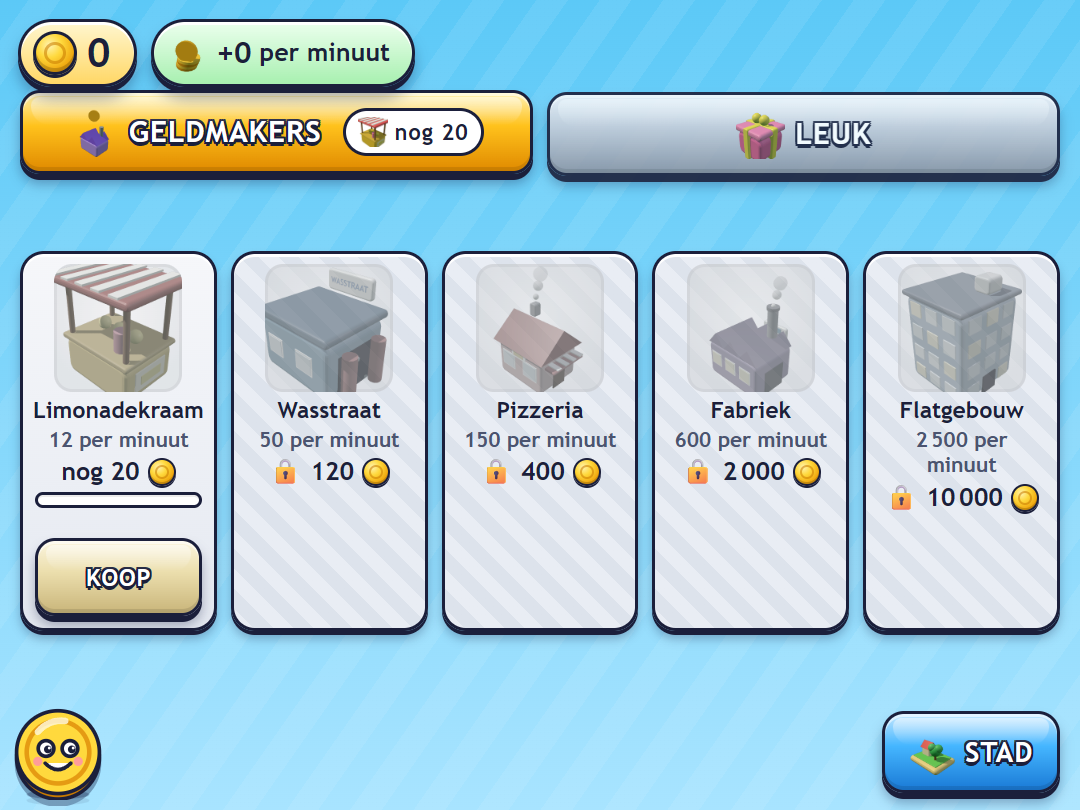
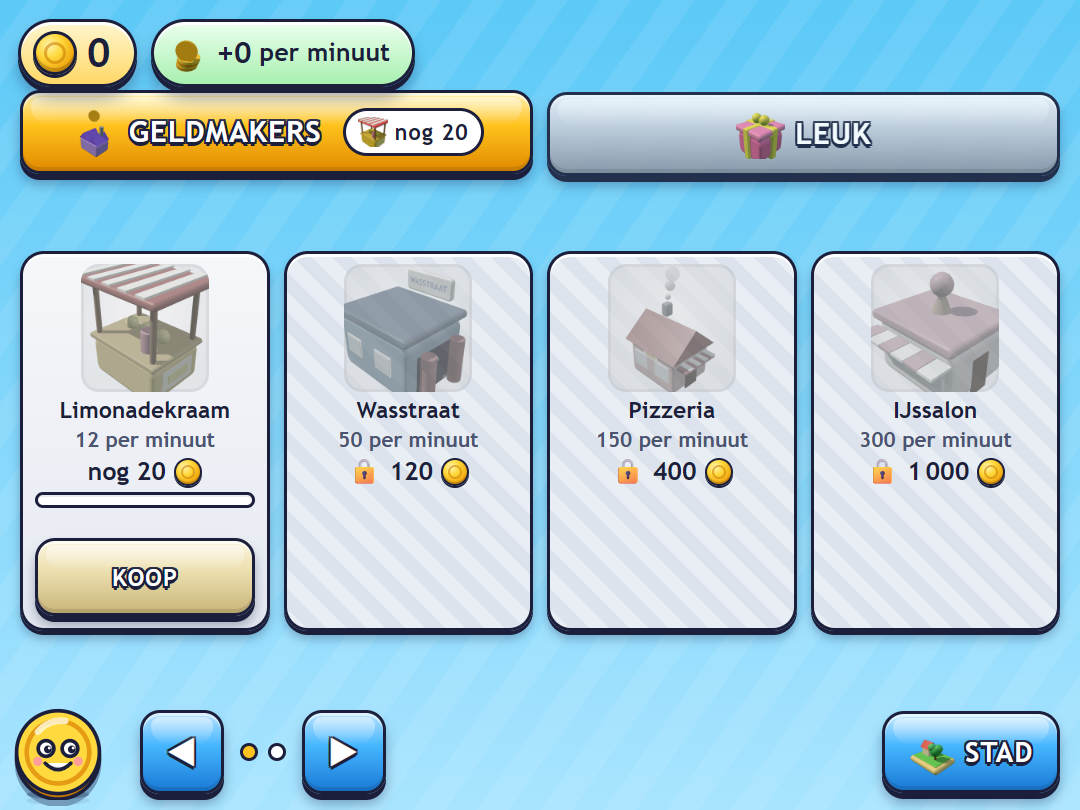
V5.5 Dorp groter: eiland 20×14, IJssalon en Pretpark met vijf levels, winkel vier geldmakers per pagina, Bewaar-code per id (oude codes blijven werken); sw v22

Changed region(s): [[0.0306, 0.3086, 0.9778, 0.8025], [0.1222, 0.8642, 0.3667, 1.0]]

diff --git a/docs/js/3d/buildings.js b/docs/js/3d/buildings.js
@@ -190,13 +190,97 @@ function flat(b, group, anim, level) {
   if (level >= 5) crownAt(b, group, anim, 0, -1.05, h + 0.6);
 }
 
-const BUILDERS = { limonade, wasstraat, pizzeria, fabriek, flat };
+// ---------- IJssalon (V5.5): a cream-and-pink parlour that grows a giant cone, a terrace and a second floor ----------
+function ijssalon(b, group, anim, level) {
+  const c = '#fff0f5', trim = '#ff9fbd';
+  b.box(-1.1, -0.9, 0, 2.2, 1.8, 1.3, c, { r: 0.12 });
+  b.box(-1.2, -1.0, 1.3, 2.4, 2.0, 0.22, trim, { r: 0.06 });
+  b.face(-1.1, -0.9, 0, 2.2, 1.8, 'x', 0.65, 0, 0.5, 0.9, DOOR);
+  windowPane(b, -1.1, -0.9, 0, 2.2, 1.8, 'y', 0.2, 0.4, 0.7, 0.6);
+  windowPane(b, -1.1, -0.9, 0, 2.2, 1.8, 'y', 1.3, 0.4, 0.7, 0.6);
+  // striped awning over the front
+  for (let i = 0; i < 6; i++) b.box(-1.15 + i * 0.38, 0.9, 1.05, 0.36, 0.5, 0.06, i % 2 ? '#ffffff' : trim, { r: 0.01 });
+  // the cone on the roof: bigger with every level
+  const s = 0.55 + Math.min(level, 5) * 0.12;
+  b.cone(0, 0, 1.52, 0.32 * s, 0.9 * s, '#d9a066', 8);
+  b.sphere(0, 0, 1.52 + 0.9 * s, 0.38 * s, '#ff9fbd', 10);
+  if (level >= 2) b.sphere(0, 0, 1.52 + 0.9 * s + 0.5 * s, 0.32 * s, '#fff2b3', 10);
+  if (level >= 3) b.sphere(0, 0, 1.52 + 0.9 * s + 0.95 * s, 0.14 * s, '#ff5f5f', 8);   // the cherry
+  if (level >= 2) { b.cyl(-1.0, 1.25, 0, 0.3, 0.4, WOOD, 10); b.cyl(-1.0, 1.25, 0.4, 0.05, 1.0, METAL, 6); b.cone(-1.0, 1.25, 1.35, 0.55, 0.25, trim, 10); }   // parasol table
+  if (level >= 3) { b.cyl(1.0, 1.25, 0, 0.3, 0.4, WOOD, 10); b.cyl(1.0, 1.25, 0.4, 0.05, 1.0, METAL, 6); b.cone(1.0, 1.25, 1.35, 0.55, 0.25, '#7cc4ff', 10); }
+  if (level >= 4) {
+    b.box(-1.0, -0.8, 1.52, 2.0, 1.6, 1.0, c, { r: 0.08 });
+    windowPane(b, -1.0, -0.8, 1.52, 2.0, 1.6, 'y', 0.3, 0.25, 0.6, 0.55);
+    windowPane(b, -1.0, -0.8, 1.52, 2.0, 1.6, 'y', 1.1, 0.25, 0.6, 0.55);
+    b.box(-1.1, -0.9, 2.52, 2.2, 1.8, 0.2, trim, { r: 0.06 });
+    flagAt(b, group, anim, 1.2, -0.9, 2.7, trim);
+  }
+  if (level >= 5) crownAt(b, group, anim, -0.8, -0.7, level >= 4 ? 2.8 : 1.7);
+  // the cone turns slowly from level 3 on
+  if (level >= 3) {
+    const spin = new T.Group();
+    const cb = new Builder({ r: 0.02 });
+    for (let i = 0; i < 4; i++) { const a = (i / 4) * Math.PI * 2; cb.sphere(Math.cos(a) * 0.55, Math.sin(a) * 0.55, 0, 0.1, ['#ff5f5f', '#ffe94d', '#45d65c', '#7cc4ff'][i], 6); }
+    spin.add(cb.build({ shadow: false }));
+    spin.position.set(0, (level >= 4 ? 2.72 : 1.52) + 0.9 * s + 1.2 * s, 0);
+    group.add(spin);
+    anim.push((t) => { spin.rotation.y = t / 900; });
+  }
+}
+
+// ---------- Pretpark (V5.5): a gate, a ferris wheel that turns, a carousel, a slide, a bouncy castle, a loop ----------
+function pretpark(b, group, anim, level) {
+  // entrance arch on the road side
+  b.box(-1.5, 1.2, 0, 0.18, 0.18, 1.6, '#ffe94d', { r: 0.03 });
+  b.box(1.32, 1.2, 0, 0.18, 0.18, 1.6, '#ffe94d', { r: 0.03 });
+  b.box(-1.55, 1.15, 1.6, 3.1, 0.3, 0.35, '#ff5f5f', { r: 0.06 });
+  for (let i = 0; i < 5; i++) b.sphere(-1.2 + i * 0.6, 1.3, 1.97, 0.08, i % 2 ? '#ffe94d' : '#ffffff', 6);
+  b.slab(-1.5, -1.5, 0, 3.0, 2.6, '#d5c9a0');   // the ground of the park
+  // the ferris wheel: a hub on two legs, the wheel itself turns (grows with the level)
+  const r = 0.55 + Math.min(level, 5) * 0.08;
+  b.box(-0.9, -0.7, 0, 0.14, 0.14, r + 0.6, METAL, { r: 0.02 });
+  b.box(-0.9, -0.1, 0, 0.14, 0.14, r + 0.6, METAL, { r: 0.02 });
+  const wheel = new T.Group();
+  const wb = new Builder({ r: 0.02 });
+  wb.add(new T.TorusGeometry(r, 0.05, 6, 20), '#45b6ff');
+  for (let i = 0; i < 6; i++) {
+    const a = (i / 6) * Math.PI * 2;
+    wb.add(new T.BoxGeometry(0.04, r * 2, 0.04).rotateZ(a), METAL);
+    wb.add(new T.BoxGeometry(0.28, 0.24, 0.24).translate(Math.cos(a) * r, Math.sin(a) * r, 0), ['#ff5f5f', '#ffe94d', '#45d65c', '#ff9f2e', '#b76cff', '#ff6fae'][i]);
+  }
+  wheel.add(wb.build());
+  wheel.position.set(-0.9, r + 0.6, -0.4);
+  wheel.rotation.y = Math.PI / 2;
+  group.add(wheel);
+  anim.push((t) => { wheel.rotation.z = t / 2600; });
+  if (level >= 2) {
+    // carousel: a round roof on a pole with four horses that go round
+    b.cyl(0.6, -0.6, 0, 0.6, 0.12, '#ff5f5f', 14);
+    b.cyl(0.6, -0.6, 0.12, 0.06, 1.1, METAL, 6);
+    b.cone(0.6, -0.6, 1.2, 0.7, 0.4, '#ffe94d', 14);
+    const car = new T.Group();
+    const cb = new Builder({ r: 0.02 });
+    for (let i = 0; i < 4; i++) { const a = (i / 4) * Math.PI * 2; cb.box(Math.cos(a) * 0.4 - 0.1, Math.sin(a) * 0.4 - 0.07, 0.35, 0.2, 0.14, 0.2, ['#ffffff', '#ff9fbd', '#7cc4ff', '#fff2b3'][i], { r: 0.04 }); cb.cyl(Math.cos(a) * 0.4, Math.sin(a) * 0.4, 0.12, 0.02, 1.0, METAL, 5); }
+    car.add(cb.build());
+    car.position.set(0.6, 0, -0.6);
+    group.add(car);
+    anim.push((t) => { car.rotation.y = t / 1400; });
+  }
+  if (level >= 3) { b.box(0.6, 0.5, 0, 0.16, 0.16, 1.1, METAL, { r: 0.02 }); b.box(0.35, 0.55, 0.9, 0.6, 0.3, 0.1, '#ffe94d', { r: 0.03 }); for (let i = 0; i < 5; i++) b.box(0.7 + i * 0.16, 0.5, 0.9 - i * 0.18, 0.2, 0.36, 0.08, '#45d65c', { r: 0.02 }); }   // slide
+  if (level >= 4) { b.box(-1.4, -1.45, 0, 1.0, 0.8, 0.5, '#b76cff', { r: 0.18 }); for (const [dx, dy] of [[0, 0], [0.8, 0], [0, 0.6], [0.8, 0.6]]) b.cyl(-1.3 + dx, -1.35 + dy, 0.5, 0.08, 0.45, '#ff9fbd', 6); b.box(-1.4, -1.45, 0.95, 1.0, 0.8, 0.12, '#ff9fbd', { r: 0.05 }); }   // bouncy castle
+  if (level >= 5) { b.add(new T.TorusGeometry(0.55, 0.06, 8, 24).rotateY(Math.PI / 2).translate(1.05, 0.7, 0.4), '#ff5f5f'); b.box(0.9, 1.0, 0, 0.3, 0.14, 0.7, METAL, { r: 0.02 }); b.box(0.9, -0.3, 0, 0.3, 0.14, 0.7, METAL, { r: 0.02 }); crownAt(b, group, anim, 1.1, -1.2, 1.9); }   // the loop
+  if (level >= 3) flagAt(b, group, anim, -1.4, 1.2, 1.9, '#45d65c');
+}
+
+const BUILDERS = { limonade, wasstraat, pizzeria, ijssalon, fabriek, flat, pretpark };
 
 /** Height of a coin-maker in world units at a level. */
 export function makerHeight(id, level) {
   if (id === 'flat') return (3 + level) * 0.62 + (level >= 5 ? 1.9 : level >= 4 ? 1.0 : 0.6);
   if (id === 'pizzeria') return level >= 3 ? 4.4 : 3.4;
   if (id === 'fabriek') return level >= 4 ? 4.2 : 3.6;
+  if (id === 'ijssalon') return level >= 4 ? 4.6 : 3.4;
+  if (id === 'pretpark') return 2.4 + Math.min(level, 5) * 0.16;
   return level >= 5 ? 3.6 : 3.0;
 }
 

diff --git a/docs/js/3d/world.js b/docs/js/3d/world.js
@@ -4,27 +4,29 @@
 import * as T from '../../vendor/three.module.min.js';
 import { Builder, MAT, shade, col, textPlane, INK } from './build.js';
 
-export const ISLAND = { w: 16, d: 12, r: 2.4 };
+export const ISLAND = { w: 20, d: 14, r: 2.4 };   // V5.5: bigger, room for seven coin-makers
 // the loop sits well inside the plots: sidewalk edges at y 2.0/9.8 and x 2.4/13.2 leave every plot's building clear
-export const ROAD = { x: 3.4, y: 3.0, w: 8.8, d: 5.8, r: 1.4, width: 1.2 };
+export const ROAD = { x: 3.4, y: 3.0, w: 12.8, d: 7.8, r: 1.4, width: 1.2 };
 export const PLOTS = {
   limonade: [5.2, 0.9],
   wasstraat: [9.6, 0.9],
-  pizzeria: [14.4, 4.2],
-  flat: [14.2, 8.6],
-  fabriek: [1.6, 8.6],
+  ijssalon: [14.0, 0.9],
+  pizzeria: [18.4, 4.4],
+  pretpark: [18.3, 9.6],
+  flat: [13.6, 13.1],
+  fabriek: [1.6, 9.2],
 };
 export const HOUSE = [1.6, 4.4];
-export const PARK = [7.8, 5.9];
+export const PARK = [9.8, 6.9];
 export const PAVE = '#e9e2cf';
 const PAL = {
   grass: '#6fd35b', grassDark: '#55b647', sand: '#f4d98a', dirt: '#b97b4b', rock: '#8a5a3a',
   road: '#4f5766', roadLine: '#f7d24a', side: '#dcd7cb',
 };
-const TREES = [[5.3, 5.0, 0.9], [10.3, 4.6, 1], [10.2, 7.4, 0.8], [3.4, 11.2, 0.8], [12.4, 11.3, 0.9], [1.2, 1.6, 0.7], [7.6, 0.5, 0.75], [15.1, 10.6, 0.7], [0.6, 6.6, 0.6], [15.4, 0.8, 0.65]];
-const BUSHES = [[5.6, 7.2, 0.9], [11.3, 6.3, 0.7], [7.5, 11.4, 0.8], [15, 6.2, 0.6], [3.2, 0.8, 0.6], [12.2, 0.8, 0.55], [0.7, 10.8, 0.7], [8.9, 11.6, 0.6]];
-const LAMPS = [[2.2, 2.6], [13.4, 2.6], [2.2, 9.2], [13.4, 9.2]];
-const FLOWERS = [[6.6, 6.9, '#ff6fae'], [6.9, 7.2, '#ffe94d'], [9.3, 7.5, '#7c9bff'], [9.6, 7.8, '#ff6fae'], [4.2, 11.5, '#ffe94d'], [11.2, 11.6, '#ff6fae'], [15.2, 7.4, '#7c9bff'], [0.9, 3.4, '#ffe94d'], [6.2, 6.4, '#ff9f2e'], [9.9, 6.9, '#ffe94d']];
+const TREES = [[5.3, 5.0, 0.9], [13.3, 5.2, 1], [12.2, 8.9, 0.8], [3.4, 13.2, 0.8], [8.4, 13.3, 0.9], [1.2, 1.6, 0.7], [7.6, 0.5, 0.75], [19.1, 13.0, 0.7], [0.6, 6.6, 0.6], [19.4, 0.8, 0.65], [6.8, 9.2, 0.85], [15.8, 6.9, 0.8]];
+const BUSHES = [[5.6, 8.4, 0.9], [13.8, 7.6, 0.7], [7.5, 13.4, 0.8], [17.5, 7.0, 0.6], [3.2, 0.8, 0.6], [11.8, 0.9, 0.55], [0.7, 12.8, 0.7], [10.9, 13.6, 0.6]];
+const LAMPS = [[2.2, 2.6], [17.4, 2.6], [2.2, 11.2], [17.4, 11.2]];
+const FLOWERS = [[7.6, 7.9, '#ff6fae'], [7.9, 8.2, '#ffe94d'], [11.3, 8.5, '#7c9bff'], [11.6, 8.8, '#ff6fae'], [4.2, 13.5, '#ffe94d'], [11.2, 13.6, '#ff6fae'], [17.2, 8.4, '#7c9bff'], [0.9, 3.4, '#ffe94d'], [7.2, 7.4, '#ff9f2e'], [11.9, 7.9, '#ffe94d']];
 const WATER_Y = -0.55;
 
 /** Points along the road loop (world units x / old-y), with cumulative length. */
@@ -293,7 +295,7 @@ export function createWorld(config) {
     }
   }
   for (const [tx, ty, ts] of [[0.5, 0.5, 0.55], [2.6, 11.4, 0.7], [8.2, 11.6, 0.55], [15.6, 6.0, 0.6], [0.4, 8.0, 0.55], [7.0, -0.2, 0.5]]) scenery.tree(tx, ty, ts, '#45d65c');
-  for (const [fx, fy] of [[3.0, 2.2], [12.7, 2.2], [3.0, 9.8], [12.7, 9.8]]) {
+  for (const [fx, fy] of [[3.0, 2.2], [16.6, 2.2], [3.0, 11.8], [16.6, 11.8]]) {
     scenery.disc(fx, fy, 0, 0.42, '#8a5a35', 0.08, 16);
     for (let i = 0; i < 6; i++) { const a = (i / 6) * Math.PI * 2; scenery.flower(fx + Math.cos(a) * 0.24, fy + Math.sin(a) * 0.24, ['#ff6fae', '#ffe94d', '#7c9bff', '#ff9f2e'][i % 4], 0.08); }
   }

diff --git a/docs/js/save.js b/docs/js/save.js
@@ -222,7 +222,7 @@ export function encodeCode(state, config) {
     state.spentFun,
     state.spentMakers,
     state.spentFood,
-    config.makers.map((m) => state.makers[m.id] || 0),
+    Object.fromEntries(config.makers.map((m) => [m.id, state.makers[m.id] || 0])),   // by id since V5.5 (older codes: an array in the old order)
     funIdx,
     eq,
     hiddenIdx,
@@ -258,7 +258,9 @@ export function decodeCode(code, config, now) {
     const fresh = createState(config, now);
     const list = (v) => (Array.isArray(v) ? v : []);
     const makers = {};
-    config.makers.forEach((m, i) => { makers[m.id] = Math.min(config.maxLevel, Math.max(0, Number(list(p[10])[i]) || 0)); });
+    const OLD_ORDER = ['limonade', 'wasstraat', 'pizzeria', 'fabriek', 'flat'];
+    const raw = p[10] && typeof p[10] === 'object' && !Array.isArray(p[10]) ? p[10] : Object.fromEntries(OLD_ORDER.map((id, i) => [id, list(p[10])[i]]));
+    config.makers.forEach((m) => { makers[m.id] = Math.min(config.maxLevel, Math.max(0, Number(raw[m.id]) || 0)); });
     const fun = {};
     for (const i of list(p[11])) if (config.fun[i]) fun[config.fun[i].id] = true;
     const equipped = { ...fresh.equipped };

diff --git a/docs/js/config.js b/docs/js/config.js
@@ -176,8 +176,10 @@ export const CONFIG = Object.freeze({
     { id: 'limonade',  name: 'Limonadekraam',    icon: '🍋', price: 20,    income: [12, 18, 27, 41, 61] },
     { id: 'wasstraat', name: 'Wasstraat',        icon: '🚿', price: 120,   income: [50, 75, 113, 170, 250] },
     { id: 'pizzeria',  name: 'Pizzeria',         icon: '🍕', price: 400,   income: [150, 225, 338, 510, 750] },
+    { id: 'ijssalon',  name: 'IJssalon',         icon: '🍦', price: 1000,  income: [300, 450, 675, 1020, 1500] },   // V5.5
     { id: 'fabriek',   name: 'Fabriek',          icon: '🤖', price: 2000,  income: [600, 900, 1350, 2040, 3000] },
     { id: 'flat',      name: 'Flatgebouw',       icon: '🏢', price: 10000, income: [2500, 3750, 5625, 8500, 12500] },
+    { id: 'pretpark',  name: 'Pretpark',         icon: '🎡', price: 40000, income: [8000, 12000, 18000, 27200, 40000] },   // V5.5: the top of the town
   ],
 
   // LEUK catalogue: fixed prices, all visible from the start, no randomness.

diff --git a/docs/js/ui/winkel.js b/docs/js/ui/winkel.js
@@ -5,6 +5,7 @@ import { formatCoins, makerLevel, makerIncome, upgradePrice, isFunActive, nextMa
 import { itemSprite, makerSprite } from '../3d/thumbs.js';
 
 const PER_PAGE = 8;
+const MAKERS_PER_PAGE = 4;
 
 export function createWinkel(game) {
   const grid = document.getElementById('shop-grid');
@@ -47,7 +48,7 @@ export function createWinkel(game) {
   }
 
   function perPage() {
-    return tab === 'makers' ? game.config.makers.length : PER_PAGE;
+    return tab === 'makers' ? MAKERS_PER_PAGE : PER_PAGE;   // V5.5: seven coin-makers over two pages
   }
 
   function pageCount() {

diff --git a/docs/js/3d/scene-stad.js b/docs/js/3d/scene-stad.js
@@ -19,7 +19,7 @@ export function createScene(container, game, engine) {
   const world = createWorld(config);
   scene.add(world.group);
   const center = new T.Vector3(ISLAND.w / 2, 0, ISLAND.d / 2);
-  const lights = addLights(scene, center, 15, engine.tier);
+  const lights = addLights(scene, center, 19, engine.tier);
   engine.onTier((t) => lights.setTier(t));
   const cam = createCamera(
     { min: { x: -0.2, y: -0.4, z: -0.2 }, max: { x: ISLAND.w + 0.2, y: 2.6, z: ISLAND.d + 0.2 } },

diff --git a/docs/css/style.css b/docs/css/style.css
@@ -534,7 +534,7 @@ img.btn-icon { width: 1.5em; height: 1.5em; object-fit: contain; }
   position: relative;
 }
 .shop-grid.makers {
-  grid-template-columns: repeat(5, 1fr);
+  grid-template-columns: repeat(4, 1fr);   /* V5.5: seven coin-makers, four per page */
   grid-template-rows: minmax(0, 380px);
   align-content: center;
 }

diff --git a/docs/sw.js b/docs/sw.js
@@ -1,6 +1,6 @@
 // sw.js — cache-first app shell. Bump CACHE_VERSION on every deploy.
 // Every file in docs/ is precached so the game loads offline and as a home-screen app.
-const CACHE_VERSION = 'muntstad-v21';
+const CACHE_VERSION = 'muntstad-v22';
 const PRECACHE = [
   './',
   './index.html',

diff --git a/PROGRESS.md b/PROGRESS.md
@@ -57,7 +57,7 @@ Plan: PLAN-V5.md (zes punten van de speler + open punten uit RAPPORT §7). Zelfd
 - [x] V5.2 — de grot (05-09-2026): gang van twee delen met een bocht (CAVE.path, 9,5 m) naar een ronde kamer (r 3,4) met 16 wandblokken, dakschijf, stalactieten, kristallen langs de gang en in de kamer met twee koele lichten; de kist aan de overkant van de kamer; zeven vleermuizen onder het plafond die opvliegen en door de gang naar buiten fladderen als je de kamer binnenkomt (na 45 s hangen ze er weer); druppels (geluid + vallend druppeltje); het grotspook slaapt aan de zijkant van de kamer, wordt wakker als de kist opengaat, jaagt je met 3,3 m/s door de gang (blijft binnen de wanden via clampInCave), pakt bij een vangst tot 3 schelpen (of één ander ding) en pauzeert 2,5 s; buiten de grot gaat het terug slapen. Camera volgt de bocht. Muntje-zinnen door Ollama. Unit 80 groen, e2e grot-test uitgebreid (vleermuizen, spook wakker, ontsnapt).
 - [x] V5.3 — uitdaging (05-09-2026): pure `docs/js/uitdaging.js` (perks, honger, eten, flauwvallen, hertstoot, nachtregels; getallen in config.honger/deer/moeilijker). Honger 0-100 loopt leeg (4/min dag, 8/min nacht), onder 25 loop je op 60 %; EET-knop eet vis (+40) of bes (+15); leeg in het donker = flauwvallen: zwart beeld, wakker bij het vuur, halve rugzak weg, honger 50. Nachthert vanaf nacht 2 (`spoken.deerModel`, gloeiende ogen): zwerft, rent in het donker op je af (4,0 m/s: rennen ontsnapt net, schoenen zeker), duwt je 2,2 m weg en de helft van je spullen valt eruit (max 6, liggen om je heen, PAK raapt op; verdwijnen bij zonsopgang); licht en het hek houden het weg. Elke nacht zwaarder (nightRules): +1 spook per 2 nachten tot 6, spoken tot 60 % sneller, sneller nieuwe, beer elke 2e nacht vanaf nacht 6. Zeven nieuwe spullen bij het vuur: grote rugzak (60), snelle schoenen, hengel (2 vis), trommel (1× BOE), vuurkuil (vuur 30 % zuiniger), hoog hek (r 13), tweede hut (gebouwd). Honger/flauwvallen/stoten in save en Bewaar-code. Unit 86 groen (6 nieuw), e2e V5.3-test (EET, hert, oprapen, flauwvallen).
 - [x] V5.4 — wasstraat (05-09-2026): de WERK-hal groeit mee met het level van de geldmaker Wasstraat (`werk.js buildUpgrade`): 1 vlaggen op het dak, 2 neonstrip en gloeiend bordkader plus gele streep, 3 tweede borstelpaar (blauw, draait tegen), schuimkanon en twee palmen, 4 luifel op vier palen met knipperende lampjes en twee lantaarns, 5 het paleis: gouden rand, toren met koepel en ster, fontein, slingers. Wordt bij elk bezoek aan WERK gesynchroniseerd.
-- [ ] V5.5 — dorp groter: IJssalon en Pretpark, eiland 20 × 14, balans
+- [x] V5.5 — dorp (05-09-2026): eiland 20 × 14 (was 16 × 12), weglus 12,8 × 7,8, zeven kavels; twee nieuwe geldmakers met vijf levels: IJssalon (1 000; 300/min; groeiende ijshoorn met kers, parasols, verdieping, draaiende bolletjes) en Pretpark (40 000; 8 000/min; draaiend reuzenrad dat groeit, draaimolen, glijbaan, springkussen, looping). Inkomens volgen de vaste tabel (×1/1,5/2,25/3,4/5), simulator en balance-test groen. Winkel: geldmakers vier per pagina (twee pagina’s). Bewaar-code slaat de geldmakers nu per id op (oude codes met de vaste volgorde blijven laden). Bomen, struiken, lantaarns en bloemperken verplaatst voor het grotere eiland, schaduwgebied 19.
 - [ ] V5.6 — stem en muziek
 - [ ] V5.7 — afwerking: PAPA, RAPPORT, README, CI groen
 
